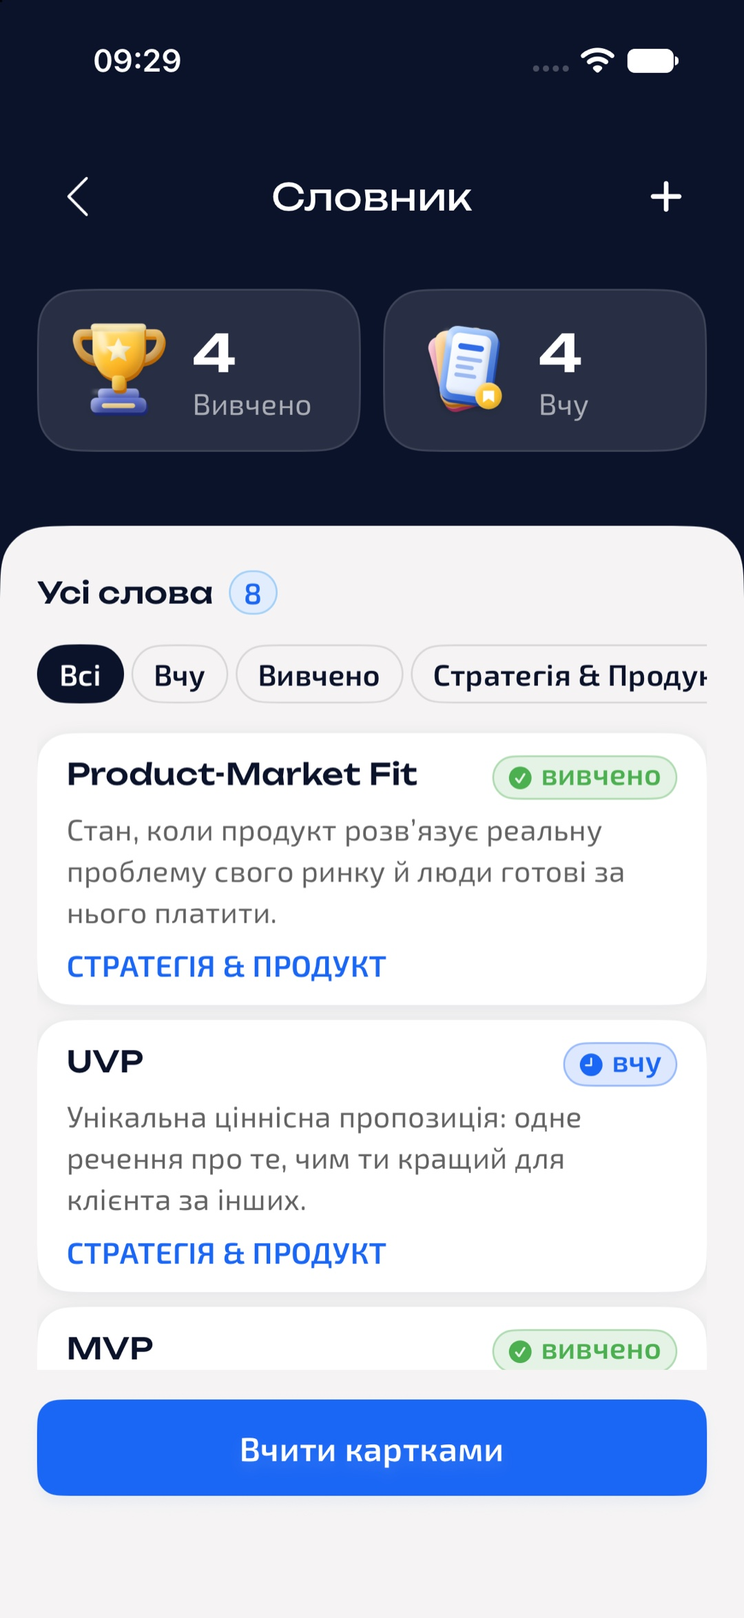
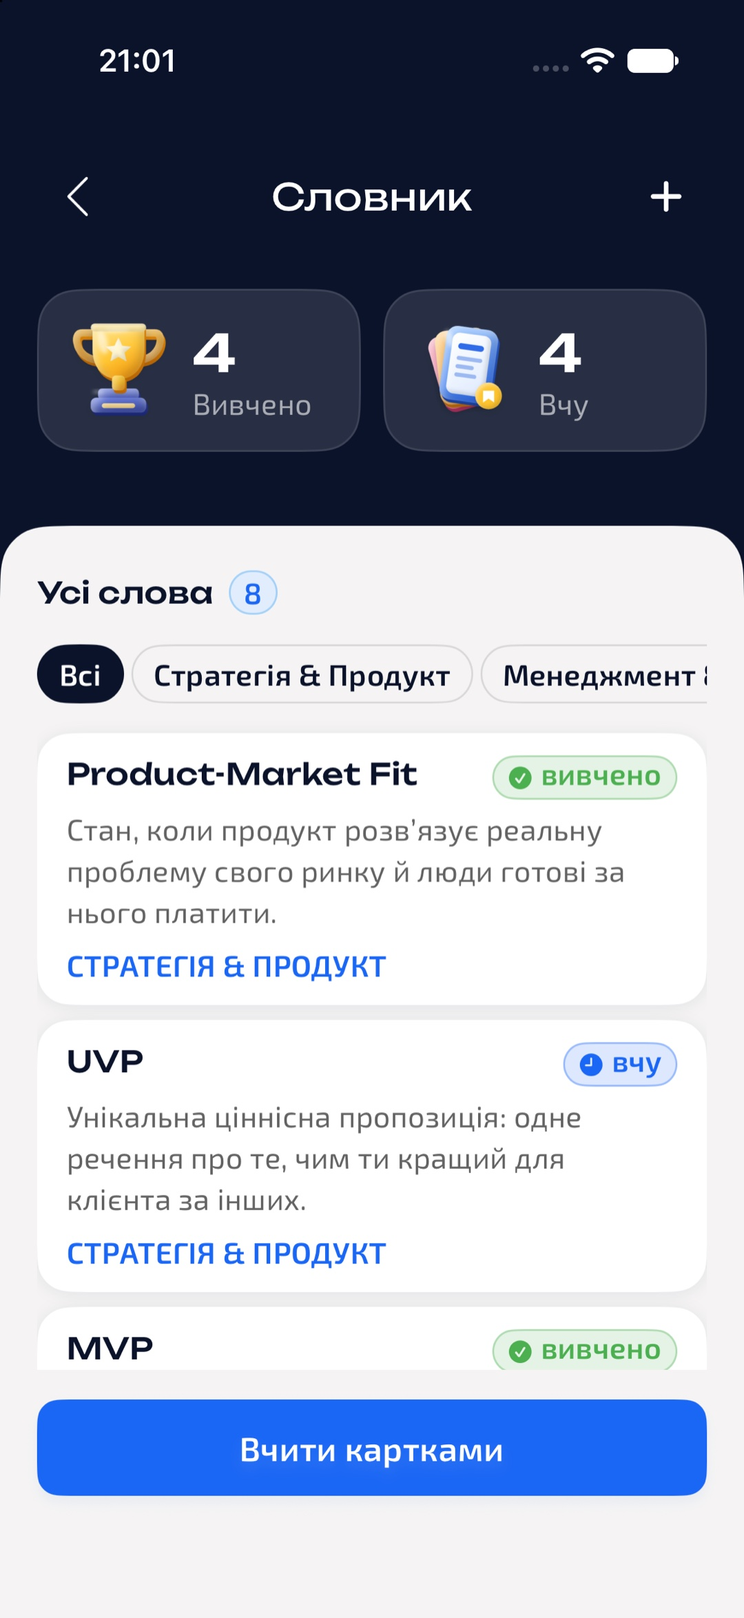
Словник: плитки — фільтр статусу, чипи — набори; таймер останніх секунд персиковий
Claude-Session: https://claude.ai/code/session_01SnGbK59qBap6rGwT8CguWL

Changed region(s): [[0.2139, 0.4042, 0.9472, 0.4353], [0.1222, 0.0311, 0.2444, 0.0622]]

diff --git a/index.html b/index.html
@@ -155,7 +155,7 @@ body.canvas .canvashint{display:block}
 </div>
 <div class="toast" id="toast">Коментар надіслано</div>
 <iframe name="gsink" hidden></iframe>
-<script id="data" type="application/json">[{"id": "home", "title": "Головна", "flows": [{"id": "home-main", "title": "Головна й слово дня", "screens": [["main", "Головна", "Слово дня закрите, «Нова гра» і «Приєднатись до кімнати»"], ["mainWord", "Слово дня відкрите", "Лице з коротким визначенням і кнопкою «Зберегти»"], ["mainGame", "Є активна партія", "Картка «Продовжити гру» над кнопками"]]}]}, {"id": "local", "title": "Гра на одному пристрої", "flows": [{"id": "local-start", "title": "Старт і правила", "screens": [["playStyle", "Спосіб гри", "На одному телефоні або кожен зі свого (кімната)"], ["rules", "Правила · команди", "Три слайди, свайп або «Далі»"], ["rules2", "Правила: 2 з 3", "Що заборонено: однокореневі, жести, пропуск без штрафу"], ["rules3", "Правила: 3 з 3", "Система балів, кнопка «Готово»"], ["rulesSolo", "Правила · одиночна", "Окремий набір правил"], ["gameMode", "Формат гри", "Командний чи одиночний"]]}, {"id": "local-teams", "title": "Команди", "screens": [["participantCount", "Кількість", "Скільки гравців і команд"], ["teamList", "Команди", "Назви й аватари, «Додати команду»"], ["teamListRename", "Перейменування", "Оверлей із полем"], ["teamListAdd", "Нова команда", "Той самий оверлей: аватар і колір наступні за списком"], ["teamListSolo", "Одиночний режим", "Список гравців, під ним «Переглянути правила»"]]}, {"id": "local-sets", "title": "Набори слів", "screens": [["setList", "Набори слів", "«Усе й одразу» і окремі сети, фільтри-таби"], ["setListOwned", "Набори · куплений сет", "Бейдж «Придбано» на картці"], ["setDetail", "Опис набору", "Безкоштовний сет: теги слів і «Грати»"], ["setDetailOwned", "Опис · куплений", "Сет відкрито покупкою"]]}, {"id": "local-mode", "title": "Режим гри", "screens": [["gameSettings", "Режим гри", "Три пастельні режими й «Свій режим»"], ["gameSettingsQuick", "Швидка гра", "Пресет одним тапом: 40 с, до 20 очок"], ["gameSettingsDetails", "Свій режим", "Чіпи, слайдери-пігулки, тумблери всередині картки"]]}, {"id": "local-ready", "title": "Між раундами", "screens": [["getReady", "Раунд 1", "Рахунок команд, «Почати гру»"], ["getReady6", "Раунд · 6 команд", "Повний список"], ["getReadyCircle", "Раунд · кінець кола", "Ліміт узято, коло дограють"], ["ranking", "Коло завершено · топ 3", "Після кола той самий екран показує пʼєдестал"], ["ranking6", "Коло завершено · 6 команд", "Пʼєдестал і таблиця решти"]]}]}, {"id": "room", "title": "Кімната (кілька телефонів)", "flows": [{"id": "room-host", "title": "Організатор", "screens": [["playerNameHost", "Твій нік · організатор", "Порожнє поле, «Створити кімнату» неактивна"], ["createRoom", "Лобі організатора", "Код і QR для гостей, список учасників"], ["createRoomEmpty", "Порожня кімната", "Лише організатор, «Чекаємо на гравців…», «Продовжити» вимкнена"], ["createRoomClose", "Закрити кімнату?", "Вихід із лобі до старту"], ["gameModeRoom", "Формат · мала кімната", "До 3 гравців доступний і одиночний"], ["gameModeRoomBig", "Формат · кімната", "Одиночний недоступний, коли гравців більше 3"], ["participantCountRoom", "Учасники · кімната", "Аватари з лобі, вибір кількості команд"], ["teamRoster", "Команди · кімната", "Гравців можна перетягувати між командами"], ["roomRoleExplainer", "Роль: пояснювач", "Бачить слова, старт раунду"], ["roomHostExit", "Вихід організатора", "Роль переходить наступному гравцю"]]}, {"id": "room-join", "title": "Гість: приєднання", "screens": [["joinRoom", "Приєднатись", "Код шістьма плитками, «Сканувати QR»"], ["joinRoomFilled", "Код набрано", "Каретка на активній плитці"], ["joinRoomError", "Кімнату не знайдено", "Червоні плитки, струс"], ["joinRoomLink", "Вставлене посилання", "Із посилання-запрошення поле бере лише код і одразу входить"], ["scanQR", "Сканування QR", "Вікно з градієнтною рамкою, стан у капсулі"], ["scanQRFound", "QR зчитано", "Зелені скоби, код плитками"], ["playerName", "Твій нік", "Аватар і нік перед лобі"], ["playerNameFilled", "Нік заповнено", "Минулий нік підставлено"], ["roomLobby", "Лобі гостя", "Аватар організатора, код, список учасників"], ["teamRosterGuest", "Команди · гість", "Готовий склад, своя команда з бейджем «ти»"], ["roomClosed", "Кімнату закрито", "Організатор вийшов до старту"]]}, {"id": "room-round", "title": "Гість: раунд", "screens": [["roomRole", "Роль: відгадувач", "Слухає й вигукує"], ["roomRoleWatch", "Роль: стоп-слова", "Суперник у хард-режимі стежить за забороненими"], ["roomGuessing", "Раунд у гостя", "Слово сховане, «Вигукуй варіанти» на місці CTA"], ["roomGuessingWait", "Раунд суперника", "Грає інша команда, чекай свій хід"], ["roomGuessingHard", "Хард-режим · суперники", "Заборонені слова й «Зняти слово»"], ["roomGuessingStop", "Слово знято", "Штамп «Порушення!»"], ["roomGuessingLastWord", "Останнє слово", "Вгадують усі"], ["roomGuessingExit", "Вийти з гри?", "Таймер на паузі"], ["roomHostLost", "Організатор зник", "Пауза й відлік до передачі ролі"]]}]}, {"id": "loop", "title": "Ігровий цикл", "flows": [{"id": "loop-round", "title": "Раунд", "screens": [["gameplayCountdown", "Відлік", "3, 2, 1"], ["gameplay", "Раунд", "Свайп угору: відгадано"], ["gameplayHardWord", "Складне слово", "На картці «+2»: складне слово дає два бали"], ["gameplayHint", "Підказки свайпу", "Показуються в перших раундах"], ["gameplaySwipe", "Свайп угору", "Вердикт видно під пальцем"], ["gameplayHard", "Хард-режим · пояснювач", "Три заборонені підказки під терміном"], ["gameplayStreak", "Бонус за серію", "Спалах при серії"], ["gameplayLastWord", "Останнє слово", "Час вийшов на слові"], ["gameplayModal", "Хто відгадав", "Вибір команди для останнього слова"], ["gameplayExit", "Вийти з гри?", "Таймер на паузі, раунд не збережеться"]]}, {"id": "loop-results", "title": "Підсумок раунду", "screens": [["roundResults", "Підсумок раунду", "Зірка «зараховано», тап по слову розкриває значення"], ["roundResultsOpen", "Слово розкрите", "Визначення під терміном"], ["roundResultsHard", "Складні слова +2", "Корона «+2» у чіпі складного слова"], ["roundResultsStop", "Підсумок зі знятим словом", "Позначка біля знятого слова"], ["roundResultsCredited", "Бал іншій команді", "Капсула з назвою команди"], ["roundResultsGuest", "Підсумок у гостя", "Зірки лише для читання"]]}, {"id": "loop-final", "title": "Фінал", "screens": [["win", "Перемога", "«Ще одне коло» або на головну"]]}]}, {"id": "dict", "title": "Словник", "flows": [{"id": "dict-main", "title": "Словник", "screens": [["savedWords", "Словник", "Статистика на темному, слова на світлому, фільтри"], ["savedWordsDone", "Усе вивчено", "Таб «Вчу» зник як порожній"], ["savedWordsEmpty", "Порожній словник", "До першого слова"]]}, {"id": "dict-cards", "title": "Флешкартки", "screens": [["savedWordCardsCoachTap", "Онбординг · торкнись", "Підказка на місці лічильника"], ["savedWordCardsCoachBack", "Онбординг · свайпни", "Угору, якщо знаєш; вниз, якщо ще вчиш"], ["savedWordCards", "Лице картки", "Сет згори, бокові картки, «Вивчено / Вчу»"], ["savedWordCardsBack", "Зворот", "Визначення й «ПРИКЛАД»"], ["savedWordCardsDragUp", "Тягнуть угору", "Штамп «Вивчено», лічильник підсвічено"], ["savedWordCardsDragDown", "Тягнуть униз", "Штамп «Ще вчу»"], ["savedWordCardsConfetti", "Колоду пройдено", "Салют конфеті на фіналі"], ["savedWordCardsDone", "Фінал колоди", "«Додати слова» або «Повторити всі»"]]}, {"id": "dict-history", "title": "Історія ігор", "screens": [["addWords", "Історія ігор", "Партії: сети, переможець, стос команд"], ["playedGameWords", "Слова партії", "«Зберегти» в словник"], ["playedGameWordsToast", "Слово додано", "Тост-капсула"], ["playedGameWordsTeam", "Фільтр команди", "Лише слова обраної команди"], ["addWordsEmpty", "Ще не грали", "Порожня історія"]]}]}, {"id": "money", "title": "Монетизація", "flows": [{"id": "money-paywall", "title": "Пейвол і покупки", "screens": [["paywall", "Пейвол підписки", "Тарифи 1 і 3 місяці"], ["paywallPay", "Шторка оплати", "Нативна StoreKit"], ["paywallSet", "Пейвол набору", "Купівля одного сету"], ["paywallBrands", "Пейвол · Бренди", "Конкретний набір"], ["paywallSocial", "Пейвол · Соцмережі", "Інший набір, інша обкладинка"], ["paywallTools", "Пейвол · Інструменти", "Ще один набір"], ["paywallOwned", "Придбаний набір", "«Грати» і «Повний доступ»"], ["paywallActive", "Активна підписка", "Чинний доступ"]]}]}, {"id": "states", "title": "Діалоги, тости, помилки", "flows": [{"id": "states-confirm", "title": "Вікна підтвердження", "screens": [["mainNewGame", "Почати нову гру?", "Є активна партія: нова гра стирає поточну"], ["getReadyExit", "Вийти з гри: підготовка", "У кімнаті організатор передає роль і виходить"], ["rankingExit", "Вийти з гри: коло завершено", "Те саме підтвердження між раундами"], ["teamRosterExit", "Вийти з гри: гість", "Гість покидає кімнату, гра йде без нього"]]}, {"id": "states-toast", "title": "Повідомлення внизу екрана", "screens": [["createRoomCopied", "Код скопійовано", "Інфо-тост над парою кнопок"], ["roomGuessingNewHost", "Новий організатор", "Організатор пішов, роль перейшла гравцю"], ["roomGuessingHostBack", "Організатор повернувся", "Після короткого обриву звʼязку"], ["teamRosterFew", "Замало гравців", "Попередження: на ще одну команду людей не вистачає"], ["paywallErrorVerify", "Покупку не підтверджено", "Помилка перевірки чека"], ["paywallErrorPending", "Оплата очікує", "Покупка чекає на підтвердження (напр., батьківський контроль)"], ["paywallErrorGeneric", "Помилка оплати", "Загальна помилка з причиною"]]}, {"id": "states-input", "title": "Ліміти й помилки вводу", "screens": [["playerNameLong", "Нік задовгий", "Понад 16 символів: поле в помилці, кнопка вимкнена"], ["teamListRenameLong", "Назва команди задовга", "Понад 20 символів: «Зберегти» вимкнена"], ["teamListMax", "Максимум команд", "Шість команд, «Додати команду» вимкнена"]]}]}, {"id": "settings", "title": "Налаштування", "flows": [{"id": "settings-sub", "title": "Підписка: усі стани", "screens": [["appSettings", "Без підписки", "«Відкрити всі сети»"], ["appSettingsSets", "Куплені окремі сети", "Список куплених сетів у блоці Pro"], ["appSettingsPro", "Підписка активна", "1 місяць, до дати, «Керувати підпискою»"], ["appSettingsProEnding", "Підписку скасовано", "Діє до дати, не продовжиться"], ["appSettingsBilling", "Оплата не пройшла", "Apple повторює спробу"], ["appSettingsExpired", "Підписка закінчилась", "«Поновити підписку»"]]}, {"id": "settings-other", "title": "Інше", "screens": [["appSettingsLanguage", "Вибір мови", "Українська, English «скоро»"], ["launch", "Запуск", "Сплеш при старті"]]}]}]</script>
+<script id="data" type="application/json">[{"id": "home", "title": "Головна", "flows": [{"id": "home-main", "title": "Головна й слово дня", "screens": [["main", "Головна", "Слово дня закрите, «Нова гра» і «Приєднатись до кімнати»"], ["mainWord", "Слово дня відкрите", "Лице з коротким визначенням і кнопкою «Зберегти»"], ["mainGame", "Є активна партія", "Картка «Продовжити гру» над кнопками"]]}]}, {"id": "local", "title": "Гра на одному пристрої", "flows": [{"id": "local-start", "title": "Старт і правила", "screens": [["playStyle", "Спосіб гри", "На одному телефоні або кожен зі свого (кімната)"], ["rules", "Правила · команди", "Три слайди, свайп або «Далі»"], ["rules2", "Правила: 2 з 3", "Що заборонено: однокореневі, жести, пропуск без штрафу"], ["rules3", "Правила: 3 з 3", "Система балів, кнопка «Готово»"], ["rulesSolo", "Правила · одиночна", "Окремий набір правил"], ["gameMode", "Формат гри", "Командний чи одиночний"]]}, {"id": "local-teams", "title": "Команди", "screens": [["participantCount", "Кількість", "Скільки гравців і команд"], ["teamList", "Команди", "Назви й аватари, «Додати команду»"], ["teamListRename", "Перейменування", "Оверлей із полем"], ["teamListAdd", "Нова команда", "Той самий оверлей: аватар і колір наступні за списком"], ["teamListSolo", "Одиночний режим", "Список гравців, під ним «Переглянути правила»"]]}, {"id": "local-sets", "title": "Набори слів", "screens": [["setList", "Набори слів", "«Усе й одразу» і окремі сети, фільтри-таби"], ["setListOwned", "Набори · куплений сет", "Бейдж «Придбано» на картці"], ["setDetail", "Опис набору", "Безкоштовний сет: теги слів і «Грати»"], ["setDetailOwned", "Опис · куплений", "Сет відкрито покупкою"]]}, {"id": "local-mode", "title": "Режим гри", "screens": [["gameSettings", "Режим гри", "Три пастельні режими й «Свій режим»"], ["gameSettingsQuick", "Швидка гра", "Пресет одним тапом: 40 с, до 20 очок"], ["gameSettingsDetails", "Свій режим", "Чіпи, слайдери-пігулки, тумблери всередині картки"]]}, {"id": "local-ready", "title": "Між раундами", "screens": [["getReady", "Раунд 1", "Рахунок команд, «Почати гру»"], ["getReady6", "Раунд · 6 команд", "Повний список"], ["getReadyCircle", "Раунд · кінець кола", "Ліміт узято, коло дограють"], ["ranking", "Коло завершено · топ 3", "Після кола той самий екран показує пʼєдестал"], ["ranking6", "Коло завершено · 6 команд", "Пʼєдестал і таблиця решти"]]}]}, {"id": "room", "title": "Кімната (кілька телефонів)", "flows": [{"id": "room-host", "title": "Організатор", "screens": [["playerNameHost", "Твій нік · організатор", "Порожнє поле, «Створити кімнату» неактивна"], ["createRoom", "Лобі організатора", "Код і QR для гостей, список учасників"], ["createRoomEmpty", "Порожня кімната", "Лише організатор, «Чекаємо на гравців…», «Продовжити» вимкнена"], ["createRoomClose", "Закрити кімнату?", "Вихід із лобі до старту"], ["gameModeRoom", "Формат · мала кімната", "До 3 гравців доступний і одиночний"], ["gameModeRoomBig", "Формат · кімната", "Одиночний недоступний, коли гравців більше 3"], ["participantCountRoom", "Учасники · кімната", "Аватари з лобі, вибір кількості команд"], ["teamRoster", "Команди · кімната", "Гравців можна перетягувати між командами"], ["roomRoleExplainer", "Роль: пояснювач", "Бачить слова, старт раунду"], ["roomHostExit", "Вихід організатора", "Роль переходить наступному гравцю"]]}, {"id": "room-join", "title": "Гість: приєднання", "screens": [["joinRoom", "Приєднатись", "Код шістьма плитками, «Сканувати QR»"], ["joinRoomFilled", "Код набрано", "Каретка на активній плитці"], ["joinRoomError", "Кімнату не знайдено", "Червоні плитки, струс"], ["joinRoomLink", "Вставлене посилання", "Із посилання-запрошення поле бере лише код і одразу входить"], ["scanQR", "Сканування QR", "Вікно з градієнтною рамкою, стан у капсулі"], ["scanQRFound", "QR зчитано", "Зелені скоби, код плитками"], ["playerName", "Твій нік", "Аватар і нік перед лобі"], ["playerNameFilled", "Нік заповнено", "Минулий нік підставлено"], ["roomLobby", "Лобі гостя", "Аватар організатора, код, список учасників"], ["teamRosterGuest", "Команди · гість", "Готовий склад, своя команда з бейджем «ти»"], ["roomClosed", "Кімнату закрито", "Організатор вийшов до старту"]]}, {"id": "room-round", "title": "Гість: раунд", "screens": [["roomRole", "Роль: відгадувач", "Слухає й вигукує"], ["roomRoleWatch", "Роль: стоп-слова", "Суперник у хард-режимі стежить за забороненими"], ["roomGuessing", "Раунд у гостя", "Слово сховане, «Вигукуй варіанти» на місці CTA"], ["roomGuessingWait", "Раунд суперника", "Грає інша команда, чекай свій хід"], ["roomGuessingHard", "Хард-режим · суперники", "Заборонені слова й «Зняти слово»"], ["roomGuessingStop", "Слово знято", "Штамп «Порушення!»"], ["roomGuessingLastWord", "Останнє слово", "Вгадують усі"], ["roomGuessingExit", "Вийти з гри?", "Таймер на паузі"], ["roomHostLost", "Організатор зник", "Пауза й відлік до передачі ролі"]]}]}, {"id": "loop", "title": "Ігровий цикл", "flows": [{"id": "loop-round", "title": "Раунд", "screens": [["gameplayCountdown", "Відлік", "3, 2, 1"], ["gameplay", "Раунд", "Свайп угору: відгадано"], ["gameplayHardWord", "Складне слово", "На картці «+2»: складне слово дає два бали"], ["gameplayHint", "Підказки свайпу", "Показуються в перших раундах"], ["gameplaySwipe", "Свайп угору", "Вердикт видно під пальцем"], ["gameplayHard", "Хард-режим · пояснювач", "Три заборонені підказки під терміном"], ["gameplayStreak", "Бонус за серію", "Спалах при серії"], ["gameplayLastSeconds", "Останні 10 секунд", "Таймер і смужка персикові, цифра пульсує"], ["gameplayLastWord", "Останнє слово", "Час вийшов на слові"], ["gameplayModal", "Хто відгадав", "Вибір команди для останнього слова"], ["gameplayExit", "Вийти з гри?", "Таймер на паузі, раунд не збережеться"]]}, {"id": "loop-results", "title": "Підсумок раунду", "screens": [["roundResults", "Підсумок раунду", "Зірка «зараховано», тап по слову розкриває значення"], ["roundResultsOpen", "Слово розкрите", "Визначення під терміном"], ["roundResultsHard", "Складні слова +2", "Корона «+2» у чіпі складного слова"], ["roundResultsStop", "Підсумок зі знятим словом", "Позначка біля знятого слова"], ["roundResultsCredited", "Бал іншій команді", "Капсула з назвою команди"], ["roundResultsGuest", "Підсумок у гостя", "Зірки лише для читання"]]}, {"id": "loop-final", "title": "Фінал", "screens": [["win", "Перемога", "«Ще одне коло» або на головну"]]}]}, {"id": "dict", "title": "Словник", "flows": [{"id": "dict-main", "title": "Словник", "screens": [["savedWords", "Словник", "Плитки «Вивчено / Вчу» — фільтр статусу, чипи — набори"], ["savedWordsFiltered", "Фільтр: Вчу + набір", "Плитка «Вчу» обрана, чип набору — два фільтри разом"], ["savedWordsDone", "Усе вивчено", "Таб «Вчу» зник як порожній"], ["savedWordsEmpty", "Порожній словник", "До першого слова"]]}, {"id": "dict-cards", "title": "Флешкартки", "screens": [["savedWordCardsCoachTap", "Онбординг · торкнись", "Підказка на місці лічильника"], ["savedWordCardsCoachBack", "Онбординг · свайпни", "Угору, якщо знаєш; вниз, якщо ще вчиш"], ["savedWordCards", "Лице картки", "Сет згори, бокові картки, «Вивчено / Вчу»"], ["savedWordCardsBack", "Зворот", "Визначення й «ПРИКЛАД»"], ["savedWordCardsDragUp", "Тягнуть угору", "Штамп «Вивчено», лічильник підсвічено"], ["savedWordCardsDragDown", "Тягнуть униз", "Штамп «Ще вчу»"], ["savedWordCardsConfetti", "Колоду пройдено", "Салют конфеті на фіналі"], ["savedWordCardsDone", "Фінал колоди", "«Додати слова» або «Повторити всі»"]]}, {"id": "dict-history", "title": "Історія ігор", "screens": [["addWords", "Історія ігор", "Партії: сети, переможець, стос команд"], ["playedGameWords", "Слова партії", "«Зберегти» в словник"], ["playedGameWordsToast", "Слово додано", "Тост-капсула"], ["playedGameWordsTeam", "Фільтр команди", "Лише слова обраної команди"], ["addWordsEmpty", "Ще не грали", "Порожня історія"]]}]}, {"id": "money", "title": "Монетизація", "flows": [{"id": "money-paywall", "title": "Пейвол і покупки", "screens": [["paywall", "Пейвол підписки", "Тарифи 1 і 3 місяці"], ["paywallPay", "Шторка оплати", "Нативна StoreKit"], ["paywallSet", "Пейвол набору", "Купівля одного сету"], ["paywallBrands", "Пейвол · Бренди", "Конкретний набір"], ["paywallSocial", "Пейвол · Соцмережі", "Інший набір, інша обкладинка"], ["paywallTools", "Пейвол · Інструменти", "Ще один набір"], ["paywallOwned", "Придбаний набір", "«Грати» і «Повний доступ»"], ["paywallActive", "Активна підписка", "Чинний доступ"]]}]}, {"id": "states", "title": "Діалоги, тости, помилки", "flows": [{"id": "states-confirm", "title": "Вікна підтвердження", "screens": [["mainNewGame", "Почати нову гру?", "Є активна партія: нова гра стирає поточну"], ["getReadyExit", "Вийти з гри: підготовка", "У кімнаті організатор передає роль і виходить"], ["rankingExit", "Вийти з гри: коло завершено", "Те саме підтвердження між раундами"], ["teamRosterExit", "Вийти з гри: гість", "Гість покидає кімнату, гра йде без нього"]]}, {"id": "states-toast", "title": "Повідомлення внизу екрана", "screens": [["createRoomCopied", "Код скопійовано", "Інфо-тост над парою кнопок"], ["roomGuessingNewHost", "Новий організатор", "Організатор пішов, роль перейшла гравцю"], ["roomGuessingHostBack", "Організатор повернувся", "Після короткого обриву звʼязку"], ["teamRosterFew", "Замало гравців", "Попередження: на ще одну команду людей не вистачає"], ["paywallErrorVerify", "Покупку не підтверджено", "Помилка перевірки чека"], ["paywallErrorPending", "Оплата очікує", "Покупка чекає на підтвердження (напр., батьківський контроль)"], ["paywallErrorGeneric", "Помилка оплати", "Загальна помилка з причиною"]]}, {"id": "states-input", "title": "Ліміти й помилки вводу", "screens": [["playerNameLong", "Нік задовгий", "Понад 16 символів: поле в помилці, кнопка вимкнена"], ["teamListRenameLong", "Назва команди задовга", "Понад 20 символів: «Зберегти» вимкнена"], ["teamListMax", "Максимум команд", "Шість команд, «Додати команду» вимкнена"]]}]}, {"id": "settings", "title": "Налаштування", "flows": [{"id": "settings-sub", "title": "Підписка: усі стани", "screens": [["appSettings", "Без підписки", "«Відкрити всі сети»"], ["appSettingsSets", "Куплені окремі сети", "Список куплених сетів у блоці Pro"], ["appSettingsPro", "Підписка активна", "1 місяць, до дати, «Керувати підпискою»"], ["appSettingsProEnding", "Підписку скасовано", "Діє до дати, не продовжиться"], ["appSettingsBilling", "Оплата не пройшла", "Apple повторює спробу"], ["appSettingsExpired", "Підписка закінчилась", "«Поновити підписку»"]]}, {"id": "settings-other", "title": "Інше", "screens": [["appSettingsLanguage", "Вибір мови", "Українська, English «скоро»"], ["launch", "Запуск", "Сплеш при старті"]]}]}]</script>
 <script>
 const DATA=JSON.parse(document.getElementById('data').textContent);
 const $=s=>document.querySelector(s);
@@ -180,7 +180,7 @@ function render(){
   board+=`<div class="secgrp"><div class="sechead" id="${sec.id}"><h2>${sec.title}</h2><span>${cnt} ${plural(cnt)}</span></div>`;
   flows.forEach(x=>{
    board+=`<section class="flow" id="${x.f.id}"><div class="flowcap"><h3>${x.f.title}</h3><span>${x.items.length} ${plural(x.items.length)}</span><button data-cflow="${x.f.id}">Коментувати флоу</button></div><div class="rowwrap"><button class="arrow l" aria-label="Назад">←</button><div class="row">`+
-    x.items.map(s=>`<figure class="shot" data-route="${s.route}"><div class="im"><img src="shots/${s.route}.jpg?v=2609221827" alt="${s.label}" loading="lazy" draggable="false"><i class="pinc"></i></div><figcaption class="cap"><b>${s.label}</b><span>${s.note}</span></figcaption></figure>`).join('')+
+    x.items.map(s=>`<figure class="shot" data-route="${s.route}"><div class="im"><img src="shots/${s.route}.jpg?v=2609221900" alt="${s.label}" loading="lazy" draggable="false"><i class="pinc"></i></div><figcaption class="cap"><b>${s.label}</b><span>${s.note}</span></figcaption></figure>`).join('')+
     `</div><button class="arrow r" aria-label="Далі">→</button></div></section>`;
   });
   board+=`</div>`;
@@ -238,9 +238,9 @@ function vFit(){const W=vs.clientWidth,H=vs.clientHeight;V.fitz=Math.min(W/IW,(H
 function v100(){const W=vs.clientWidth,H=vs.clientHeight;const cx=W/2,cy=H/2;vZoomAt(1/V.z*.5,cx,cy)}
 function vZoomAt(f,cx,cy){const nz=Math.min(3,Math.max(V.fitz*.5,V.z*f));const k=nz/V.z;V.x=cx-(cx-V.x)*k;V.y=cy-(cy-V.y)*k;V.z=nz;vApply()}
 function openViewer(route){const k=all.findIndex(a=>a.route===route);if(k<0)return;V.i=k;$('#viewer').classList.add('on');document.body.style.overflow='hidden';showV();}
-function showV(){const s=all[V.i];vi.src='shots/'+s.route+'.jpg?v=2609221827';
+function showV(){const s=all[V.i];vi.src='shots/'+s.route+'.jpg?v=2609221900';
  $('#vt').innerHTML=`<b>${s.label}</b><span>${s.flow.title} · ${s.note}</span><code>${s.route}</code>`;
- const fl=all.filter(a=>a.flow===s.flow);$('#strip').innerHTML=fl.map(a=>`<button data-r="${a.route}" class="${a===s?'on':''}" title="${a.label}"><img src="shots/${a.route}.jpg?v=2609221827" loading="lazy" alt=""></button>`).join('');
+ const fl=all.filter(a=>a.flow===s.flow);$('#strip').innerHTML=fl.map(a=>`<button data-r="${a.route}" class="${a===s?'on':''}" title="${a.label}"><img src="shots/${a.route}.jpg?v=2609221900" loading="lazy" alt=""></button>`).join('');
  $('#strip').querySelectorAll('button').forEach(b=>b.onclick=()=>openViewer(b.dataset.r));
  $('#strip .on')?.scrollIntoView({inline:'center',block:'nearest'});
  vimg.querySelectorAll('.pin,.pop').forEach(n=>n.remove());
